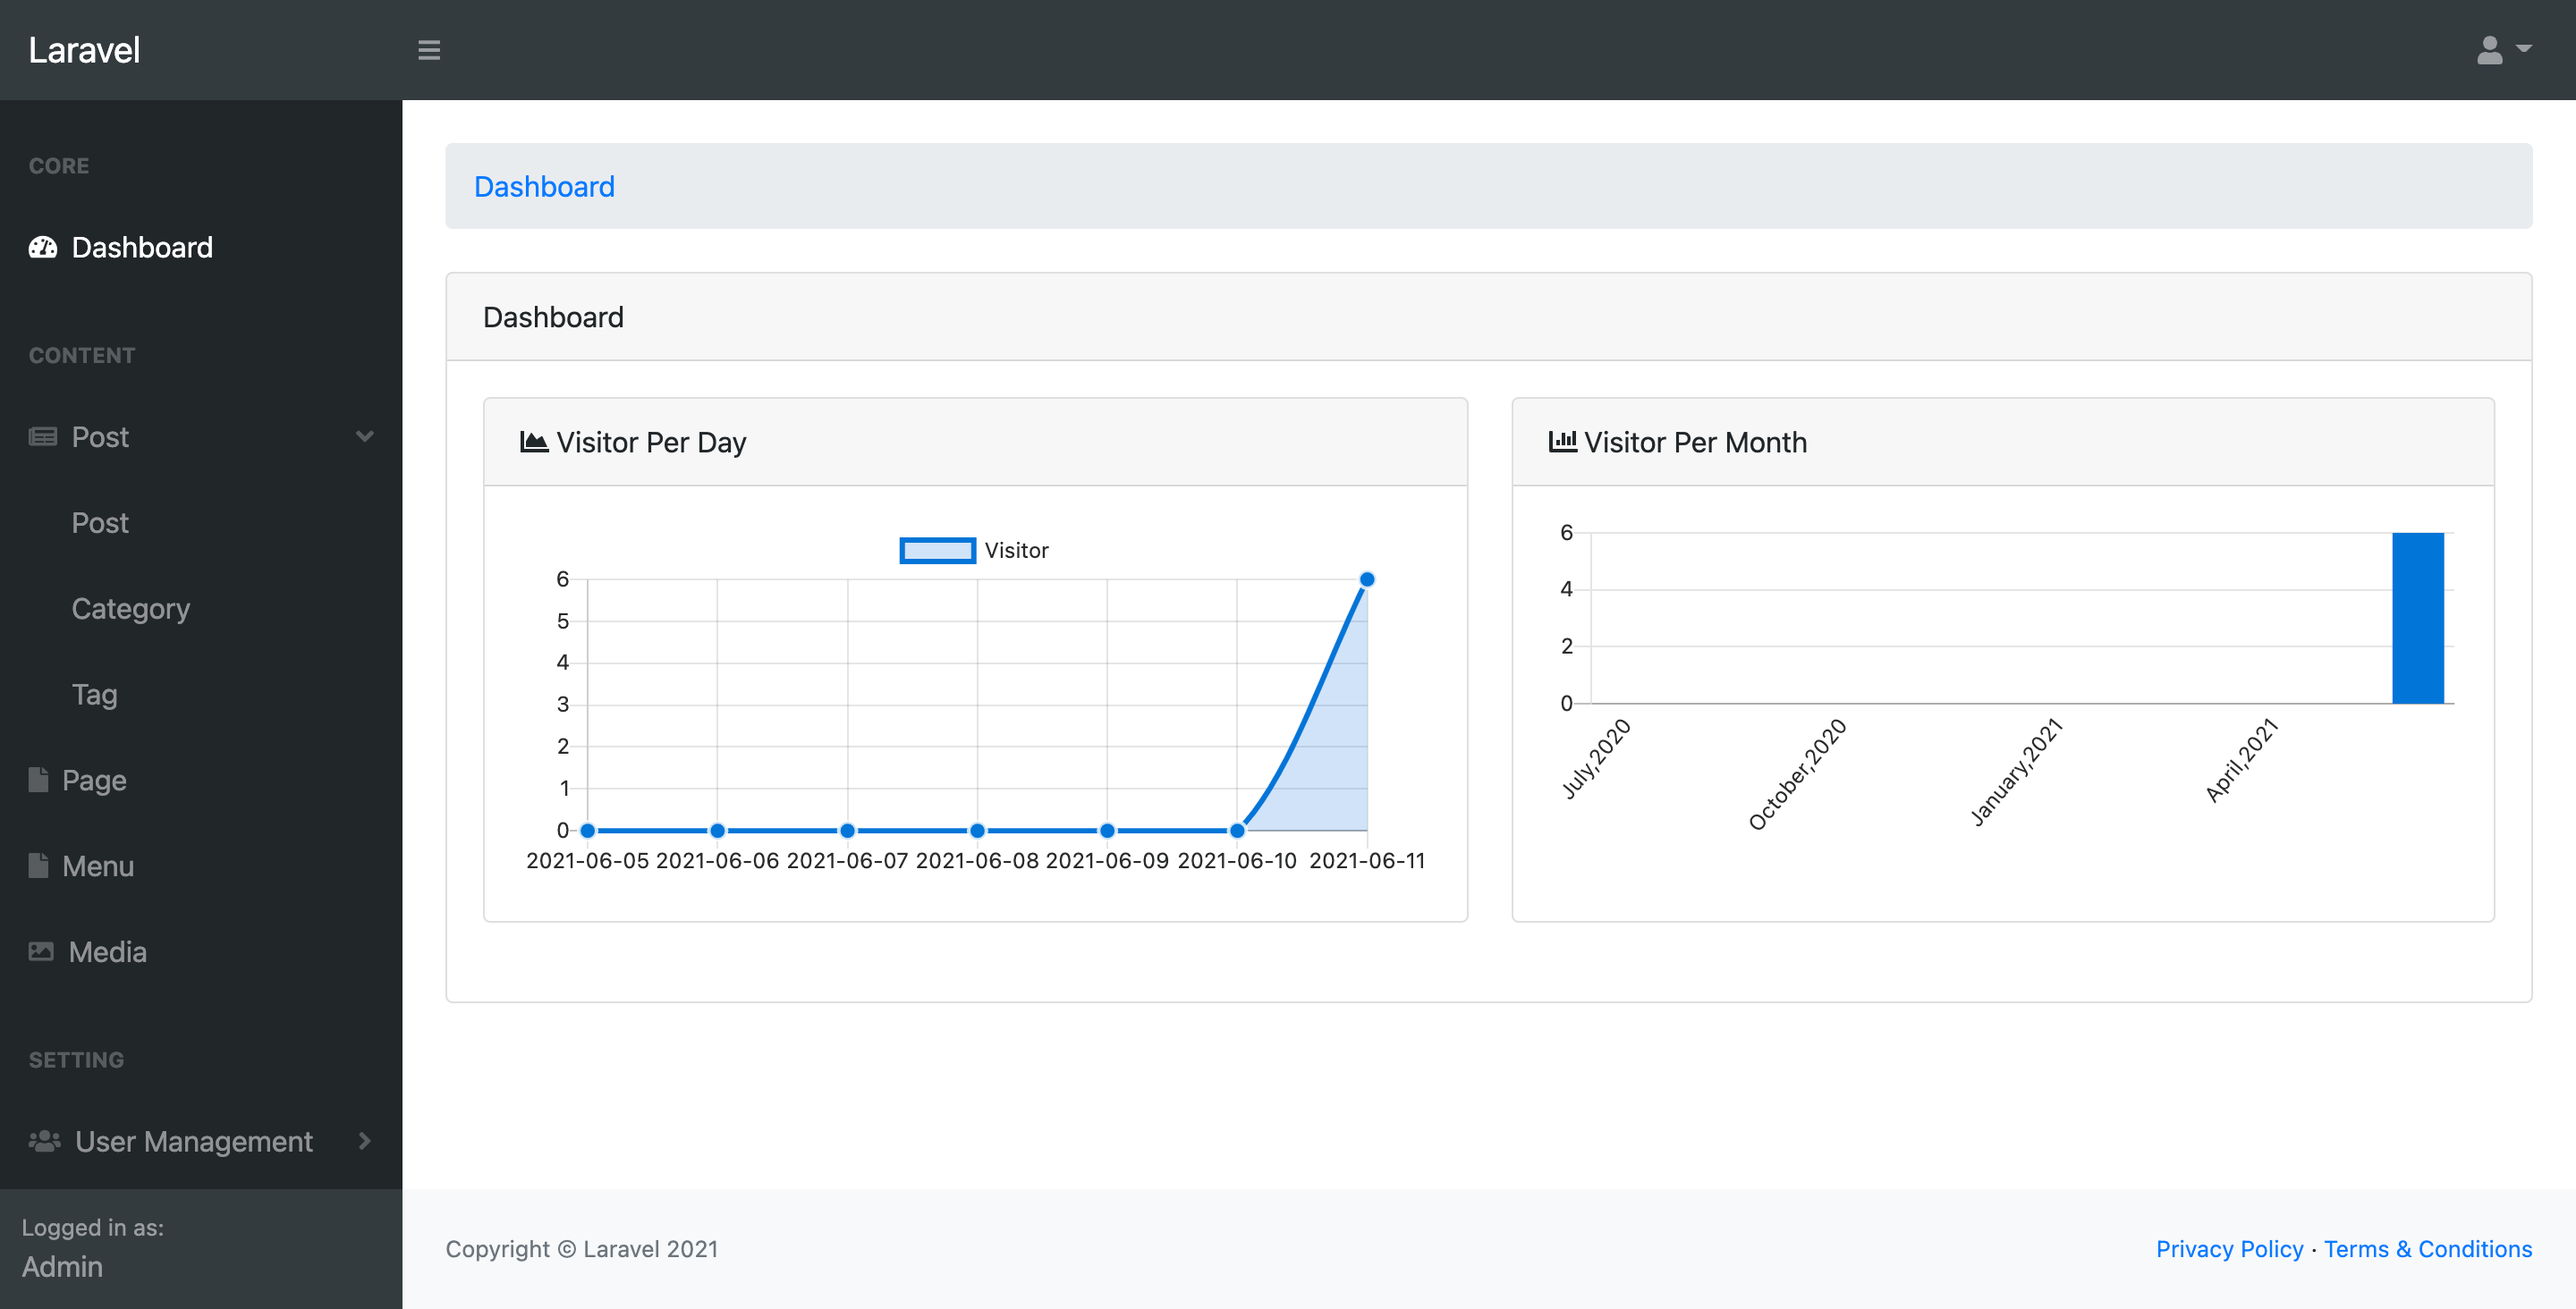
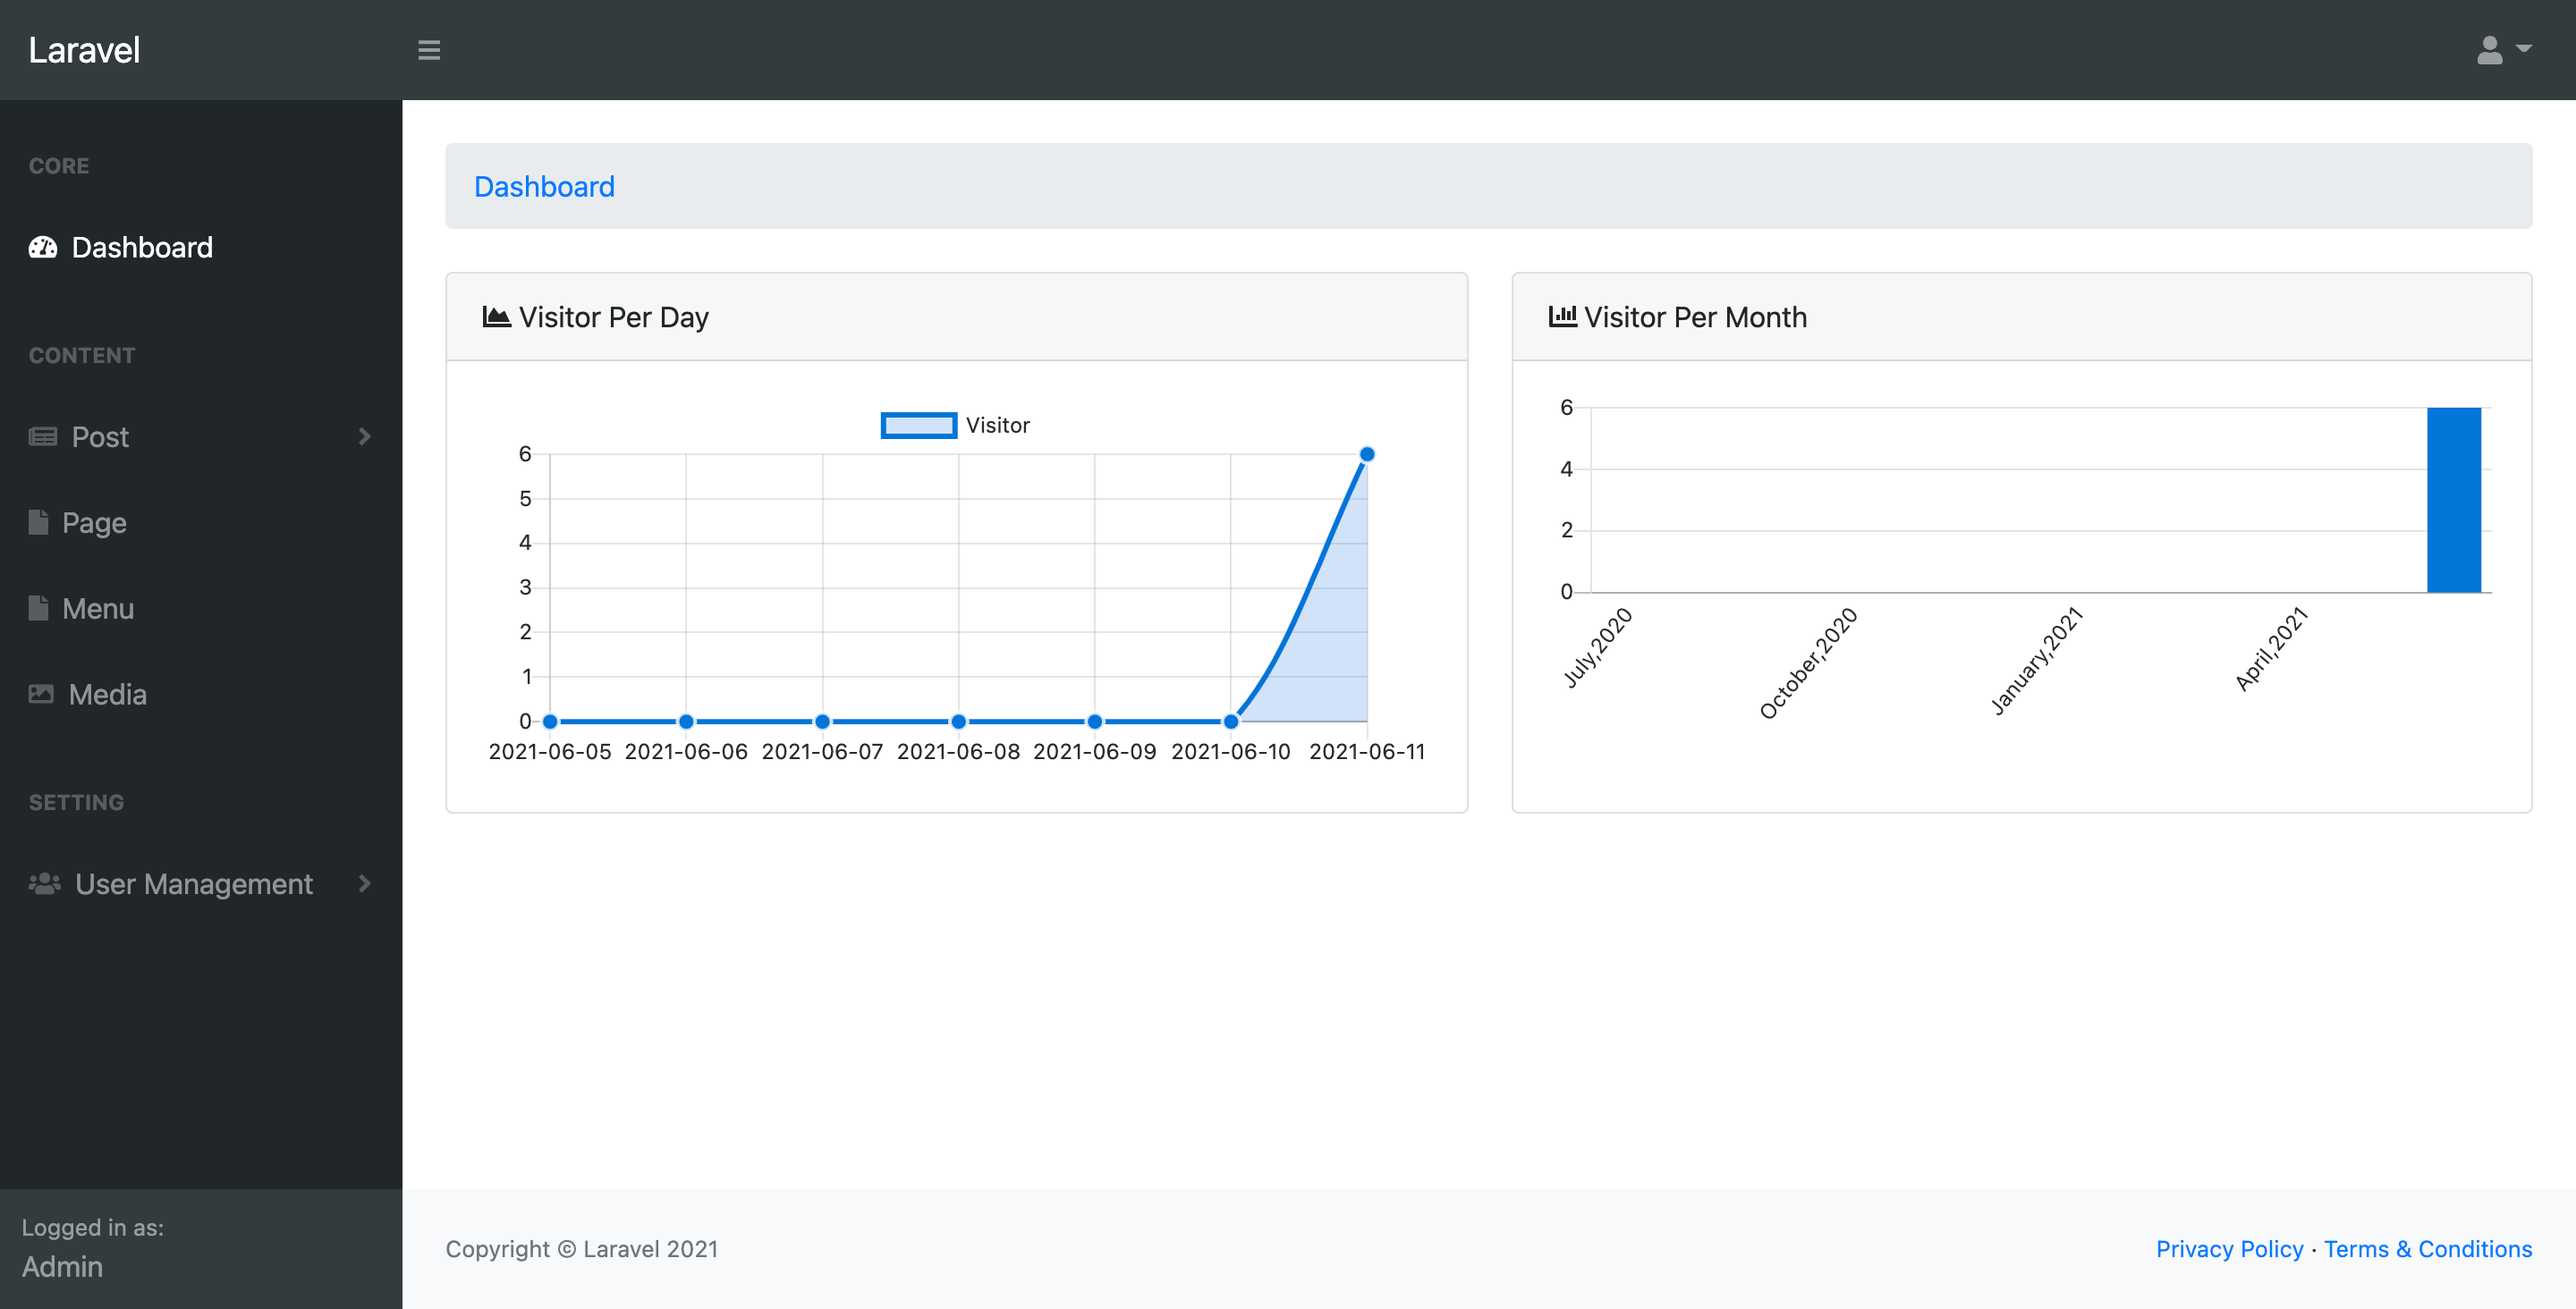
M

diff --git a/resources/views/admin/home.blade.php b/resources/views/admin/home.blade.php
@@ -1,28 +1,24 @@
 @extends('admin.layouts.app')
 
 @section('content')
-<div class="card">
-    <div class="card-header">Dashboard</div>
+<div>
+    @if (session('status'))
+        <div class="alert alert-success" role="alert">
+            {{ session('status') }}
+        </div>
+    @endif
 
-    <div class="card-body">
-        @if (session('status'))
-            <div class="alert alert-success" role="alert">
-                {{ session('status') }}
+    <div class="row">
+        <div class="col-xl-6">
+            <div class="card mb-4">
+                <div class="card-header"><i class="fas fa-chart-area mr-1"></i>Visitor Per Day</div>
+                <div class="card-body"><canvas id="myAreaChart" width="100%" height="40"></canvas></div>
             </div>
-        @endif
-
-        <div class="row">
-            <div class="col-xl-6">
-                <div class="card mb-4">
-                    <div class="card-header"><i class="fas fa-chart-area mr-1"></i>Visitor Per Day</div>
-                    <div class="card-body"><canvas id="myAreaChart" width="100%" height="40"></canvas></div>
-                </div>
-            </div>
-            <div class="col-xl-6">
-                <div class="card mb-4">
-                    <div class="card-header"><i class="fas fa-chart-bar mr-1"></i>Visitor Per Month</div>
-                    <div class="card-body"><canvas id="myBarChart" width="100%" height="40"></canvas></div>
-                </div>
+        </div>
+        <div class="col-xl-6">
+            <div class="card mb-4">
+                <div class="card-header"><i class="fas fa-chart-bar mr-1"></i>Visitor Per Month</div>
+                <div class="card-body"><canvas id="myBarChart" width="100%" height="40"></canvas></div>
             </div>
         </div>
     </div>
